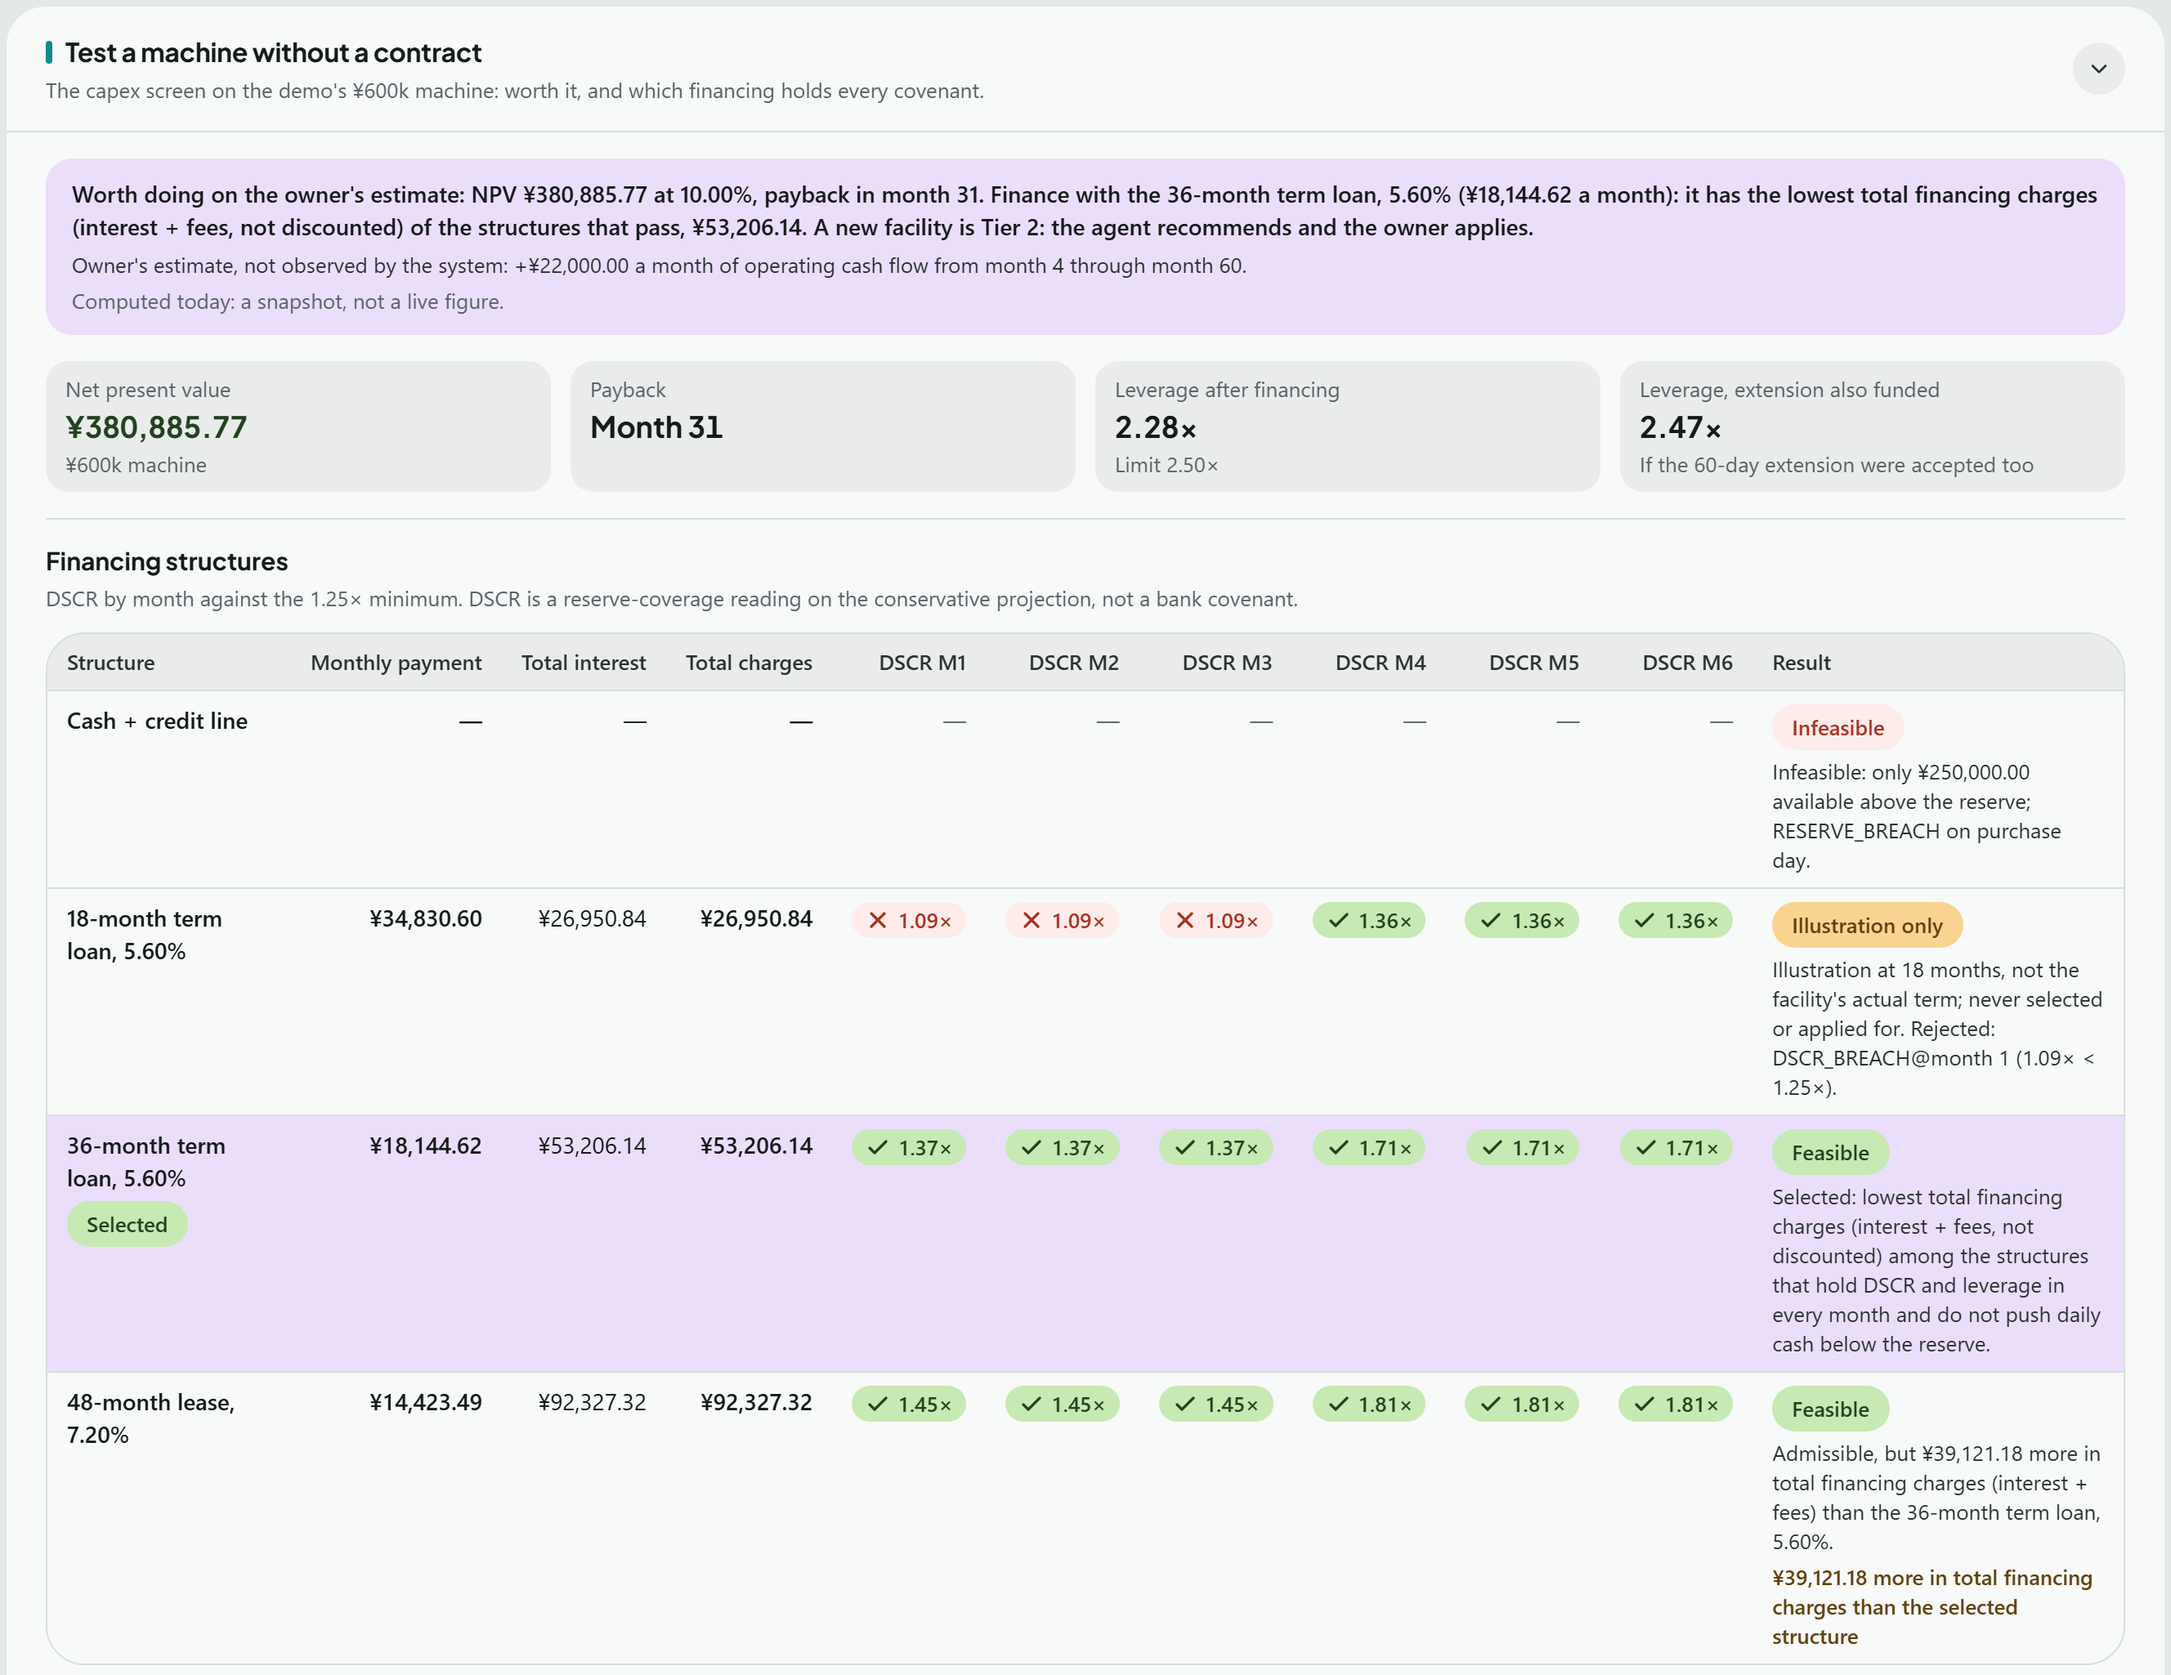
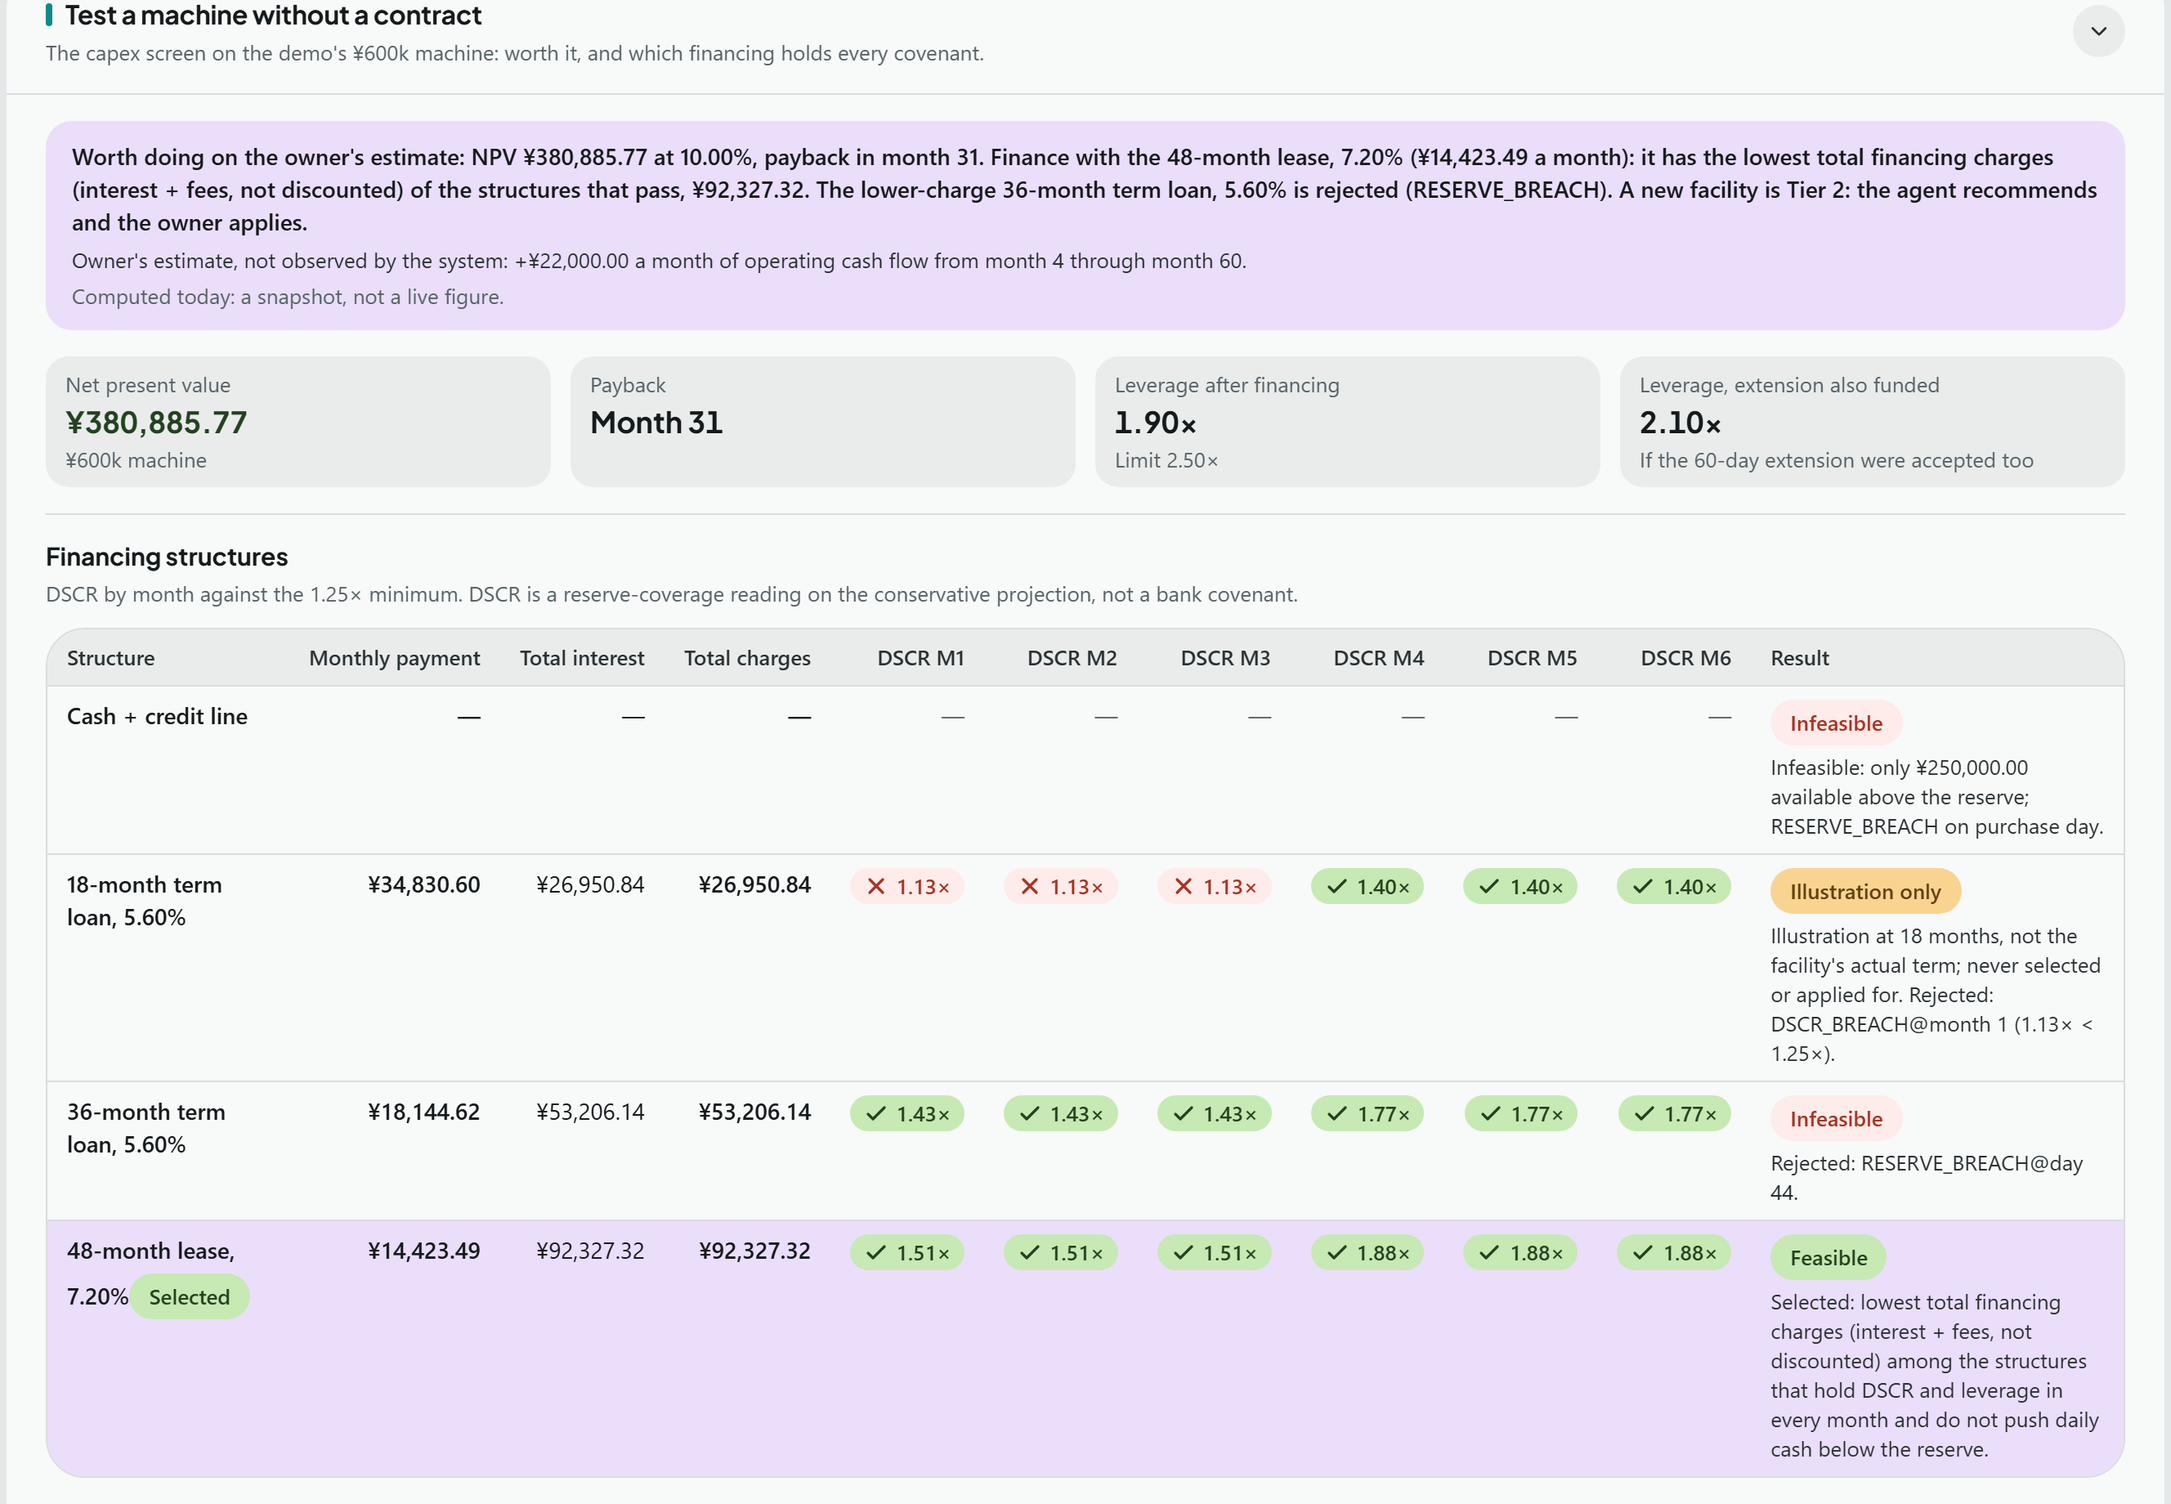
docs(figures): Figure 13 retaken live; larger figures and type in print
The audit found Figure 13 showed the 36-month loan selected, from a
stale recorded mock, and the charts and tables too small to read.

- shot6-capex retaken against the submission build's API: the 48-month
  lease selected, the 36-month loan rejected (reserve breach, day 44);
  crop_screens.py gains a capex-live mode; figures README updated
- build_deliverables.py: tables never below 8.5 pt, code 8 to 8.5 pt
- security figures 4 and 6: the build labels of the submission build

Tests: Figure 13 inspected; builder runs in the final document build
Refs: audit Fig. 13, presentation

diff --git a/docs/security/figures/src/fig6.html b/docs/security/figures/src/fig6.html
@@ -18,8 +18,10 @@
  <div class="ev"><div class="d">3 Oct</div><div class="dot"></div><div class="box"><b>Principal audit, red-team rounds 1 to 5</b><small>audit by team members with AI agents; rounds 1 to 5 by AI subagents; every finding became a regression test</small></div></div>
  <div class="ev"><div class="d">14 to 19 Oct</div><div class="dot"></div><div class="box det"><b>Security Lead: an AI agent in a separate session</b><small>audit, fixes and certifications (internal release decisions):</small>
    <div class="ids"><span class="chip c-grn">0ba8e4c1</span><span class="chip c-grn">a6de32a2</span><span class="chip c-grn">b6d1e519</span><span class="chip c-grn">0f92d433</span><span class="chip c-grn">719c9dcf</span><span class="chip c-grn">0fde33fd</span></div>
-   <div class="ids"><span class="chip c-grn">29fa0ea2</span><span class="chip c-grn">85309b63</span><span class="chip c-amb">6d2b6941 conditional</span><span class="chip c-blu">70f23ac5 last certified</span></div>
-   <div class="ids"><span class="chip c-amb">5941e95a not certified (PAY-1)</span><span class="chip c-blu">bee9c50d submission build: certification requested</span></div></div></div>
+   <div class="ids"><span class="chip c-grn">29fa0ea2</span><span class="chip c-grn">85309b63</span><span class="chip c-amb">6d2b6941 conditional</span><span class="chip c-grn">70f23ac5 certified 18 Oct</span></div>
+   <div class="ids"><span class="chip c-amb">5941e95a not certified (PAY-1)</span><span class="chip c-grn">03215a20 certified 19 Oct</span></div>
+   <!-- Security Lead: verify the status of eb3c1059 before publishing -->
+   <div class="ids"><span class="chip c-blu">eb3c1059 · submission build, certified 19 Oct</span></div></div></div>
  <div class="ev"><div class="d">16 Oct</div><div class="dot"></div><div class="box"><b>Internal red-team run</b><small>by team member Hao En; live DeepSeek tier and an offline tier; not re-run</small></div></div>
  <div class="ev"><div class="d">16 to 18 Oct</div><div class="dot"></div><div class="box owner"><b>The team's risk decisions</b><small>people, not agents, accept the residual risks</small></div></div>
 </div>

diff --git a/docs/security/figures/src/fig4.html b/docs/security/figures/src/fig4.html
@@ -38,5 +38,5 @@
  <div class="box at"><small>"what is your minimum cash reserve?"</small></div>
  <div class="box st"><small>replies are templates; a protected value or canary in outbound text blocks the message (not derived values or paraphrases)</small></div>
 </div>
-<div class="box det" style="margin-top:10px;border-width:3px"><b>279 attacks (128 API, 151 chat): 0 observed harm-oracle violations</b><small>In the specified runs on the assessed build. Harm is judged on stored state, not on what the system says. A test result within a scope, not proof that no path exists.</small></div>
+<div class="box det" style="margin-top:10px;border-width:3px"><b>279 attacks (128 API, 151 chat): 0 observed harm-oracle violations</b><small>In the specified runs. Harm is judged on stored state, not on what the system says. A test result within a scope, not proof that no path exists.</small></div>
 </div>

diff --git a/docs/deliverables/figures/src/crop_screens.py b/docs/deliverables/figures/src/crop_screens.py
@@ -117,6 +117,22 @@ if len(sys.argv) > 2 and sys.argv[2] == "final":
         ]),
     }
 
+# Figure 13 retaken on 19 Oct (audit finding): the 18 Oct capture came from a recorded mock that predates the current screening,
+# so it showed the 36-month loan selected. `python crop_screens.py <raw dir> capex-live` cuts shot6-capex alone from a capture of
+# `pnpm demo` (live mode, the submission build's API) by `SET=final capture_screens.mjs`.
+if len(sys.argv) > 2 and sys.argv[2] == "capex-live":
+    SCENARIO = "Live mode against the submission build's API, golden books (synthetic), captured 19 Oct 2026 at 1440×900"
+    FRAMES = {
+        "shot6-capex": ("10-capex-quick.png", (84, 640, 1412, 1560), [
+            (1398, 757, "The verdict: worth doing on the owner's estimate; finance with the 48-month lease at 7.20% (Tier 2)."),
+            (415, 895, "Key figures: NPV ¥380,885.77, payback in month 31, leverage 1.90× against a 2.50× limit."),
+            (369, 1078, "A figure that does not apply reads \"—\", not \"None\": cash + credit line is infeasible."),
+            (594, 1167, "DSCR month by month: the 18-month loan fails months 1–3 (1.13× below 1.25×)."),
+            (1374, 1360, "The cheaper 36-month loan is rejected: cash would fall below the reserve on day 44."),
+            (252, 1433, "Selected: the lowest total charges among the structures that pass every check."),
+        ]),
+    }
+
 
 def font(px: int, bold=False):
     return ImageFont.truetype(FONT_B if bold else FONT, px)

diff --git a/scripts/build_deliverables.py b/scripts/build_deliverables.py
@@ -575,7 +575,7 @@ class Renderer:
         p.paragraph_format.space_after = Pt(6)
         p.paragraph_format.keep_together = True  # a short code block never splits across pages
         lines = text.split("\n")
-        size = Pt(7) if max((len(x) for x in lines), default=0) > 90 else Pt(8)
+        size = Pt(8) if max((len(x) for x in lines), default=0) > 90 else Pt(8.5)  # never below 8 pt (legibility in print)
         for n, line in enumerate(lines):
             r = p.add_run(line)
             r.font.name = CODE_FONT
@@ -590,7 +590,7 @@ class Renderer:
         ncols = max(len(r) for r in rows)
         t = self.doc.add_table(rows=len(rows), cols=ncols)
         t.style = self.doc.styles["Table Grid"]
-        size = Pt(8) if ncols >= 5 or len(rows) > 20 else Pt(9)
+        size = Pt(8.5) if ncols >= 7 else Pt(9)  # tables never below 8.5 pt (legibility in print)
         for ri, row in enumerate(rows):
             for ci in range(ncols):
                 cell = t.cell(ri, ci)

diff --git a/docs/deliverables/figures/README.md b/docs/deliverables/figures/README.md
@@ -207,7 +207,7 @@ Capture: `SET=final WEB_DIR=<that apps/web> node src/capture_screens.mjs http://
 | --- | --- | --- |
 | `shot1-home.png` | Home on the opening books: without new funding cash falls to −¥105,000 within 30 days; the red card recommends securing ¥405,000 before payroll in 12 days (credit line ¥150,000 today, invoice financing ¥255,000 in 3 days) for ¥3,113.93, with no approval needed. | 01, "What the owner sees", or Appendix E (replaces `screenshots/shot1-home.png`) |
 | `shot3-approval.png` | An approval waiting (story scene 5, day 34): FLOW queued a ¥200,000 invoice-financing request because 32.5% a year is above the 15% ceiling the owner signed. It costs ¥1,782.19; nothing runs until the owner authorizes or declines. | 04 or 05, beside the tiered permissions (replaces `screenshots/shot3-approval.png`) |
-| `shot6-capex.png` | Capex, the quick check of the demo's ¥600,000 machine: worth doing on the owner's estimate (NPV ¥380,885.77, payback in month 31); the 36-month term loan is selected; the 18-month loan fails DSCR in months 1–3; figures that do not apply read "—", not "None". | 03, the capex screen, or Appendix E (replaces `screenshots/shot6-capex.png`) |
+| `shot6-capex.png` | Capex, the quick check of the demo's ¥600,000 machine: worth doing on the owner's estimate (NPV ¥380,885.77, payback in month 31); the 48-month lease is selected and the cheaper 36-month loan is rejected (reserve breach on day 44); the 18-month loan fails DSCR in months 1–3 (1.13×); captured live against the submission build on 19 Oct (`crop_screens.py <raw> capex-live`); figures that do not apply read "—", not "None". | 03, the capex screen, or Appendix E (replaces `screenshots/shot6-capex.png`) |
 | `shot9-attach.png` | Documents, attaching a contract: say what the file is and who it is with, then drop or upload a PDF with text, Word or plain text up to 5 MB; below, the documents already read, each confirmed by the owner. | 02, "Models, tools, data sources", or Appendix E (replaces `screenshots/shot9-attach.png`) |
 | `shot10-ask-answer.png` | Ask FLOW, full page, in its card: "Are we safe?" answered from the books, with the lead sentence, three key figures, the plan's cost and links. The mocks hold no recording of "Can I pay everyone?", so the frame shows the recorded "Are we safe?". | 03, Ask FLOW (replaces `screenshots/shot10-ask-answer.png` and `screen4-ask-answer.png`) |
 
@@ -225,14 +225,16 @@ Capture: `SET=final WEB_DIR=<that apps/web> node src/capture_screens.mjs http://
   invoice financing (onboarded platform), on the ¥420,000.00 invoice to Foshan Home Retail Co. What if you decline:
   ¥200,000.00 below the minimum cash reserve in 8 days. Buttons "Authorize the financing request" and "Decline". Callouts:
   1 waiting, 2 why, 3 cost, 4 decline, 5 the two buttons.
-- **shot6-capex.png.** The "Test a machine without a contract" card. A purple verdict: worth doing on the owner's estimate,
-  NPV ¥380,885.77 at 10%, payback in month 31; finance with the 36-month term loan at 5.60% (¥18,144.62 a month), the lowest
-  total charges, ¥53,206.14, of the structures that pass; a new facility is Tier 2. Tiles: NPV, payback month 31, leverage
-  2.28× (limit 2.50×), 2.47× if the extension were also funded. A table of four structures with monthly payment, interest,
-  charges, DSCR for months 1–6 and the result: cash + credit line shows "—" in every figure and is infeasible (only
-  ¥250,000 above the reserve); the 18-month loan fails months 1–3 at 1.09× and is an illustration only; the 36-month loan
-  passes every month (1.37× to 1.71×) and is selected; the 48-month lease passes but costs ¥39,121.18 more. Callouts: 1 the
-  verdict, 2 the tiles, 3 the "—" row, 4 the failing DSCR months, 5 the selected structure.
+- **shot6-capex.png.** Retaken live against the submission build's API on 19 Oct (the 18 Oct capture came from a stale
+  recorded mock). The "Test a machine without a contract" card. A purple verdict: worth doing on the owner's estimate, NPV
+  ¥380,885.77 at 10.00%, payback in month 31; finance with the 48-month lease at 7.20% (¥14,423.49 a month), the lowest total
+  charges, ¥92,327.32, of the structures that pass; the lower-charge 36-month term loan is rejected (RESERVE_BREACH); a new
+  facility is Tier 2. Tiles: NPV, payback month 31, leverage 1.90× (limit 2.50×), 2.10× if the extension were also funded. A
+  table of four structures with monthly payment, interest, charges, DSCR for months 1–6 and the result: cash + credit line
+  shows "—" and is infeasible (only ¥250,000 above the reserve); the 18-month loan fails months 1–3 at 1.13× and is an
+  illustration only; the 36-month loan passes DSCR but is rejected, RESERVE_BREACH on day 44; the 48-month lease is feasible
+  and selected. Callouts: 1 the verdict, 2 the tiles, 3 the "—" row, 4 the failing DSCR months, 5 the rejected loan, 6 the
+  selected structure.
 - **shot9-attach.png.** Documents. "Your own file": a "What it is" select (Contract with a buyer), a "Who it is with" select
   with "+Add a new customer", and a dashed drop zone, "Drag and drop a document to check it" (PDF, Word or plain text, up to
   5 MB) with an "Upload and read" button. Below, "Review a document": supply agreement FHR-2026-07 (Foshan Home Retail Co.,
